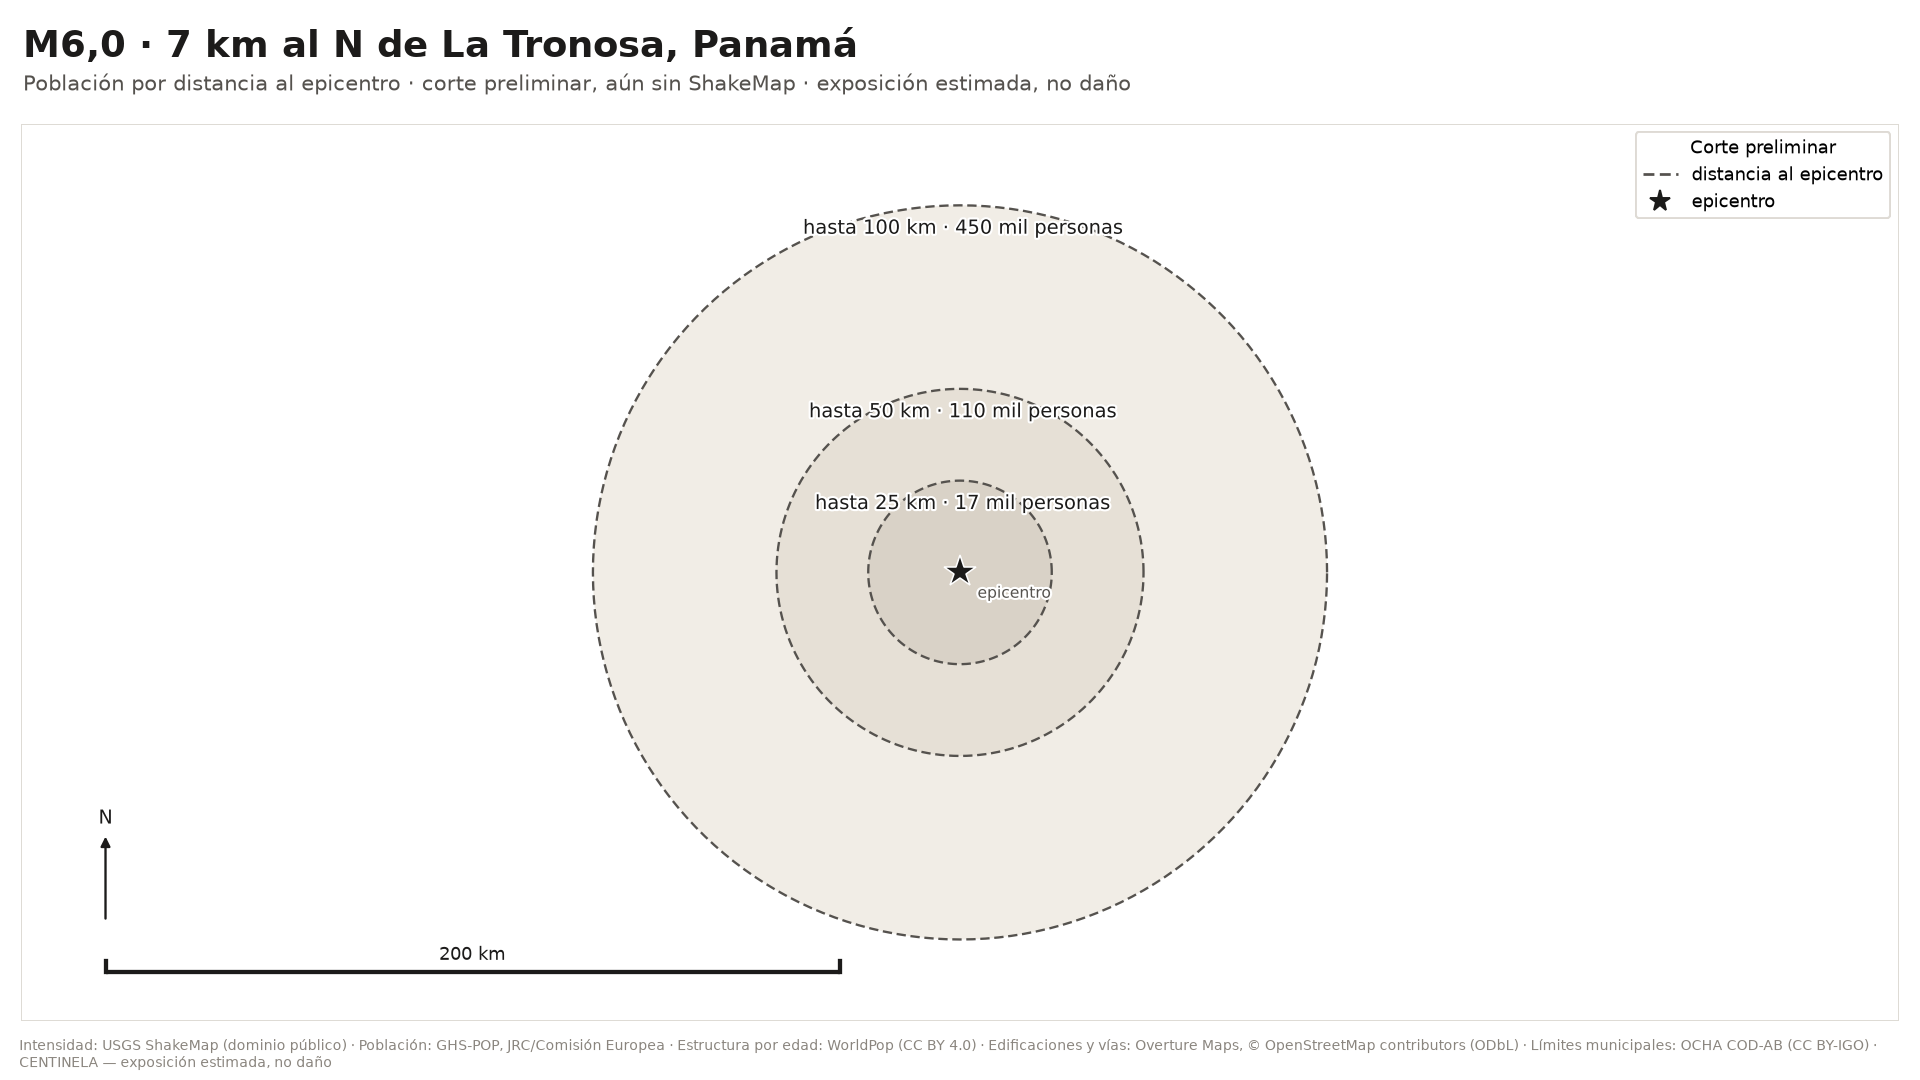
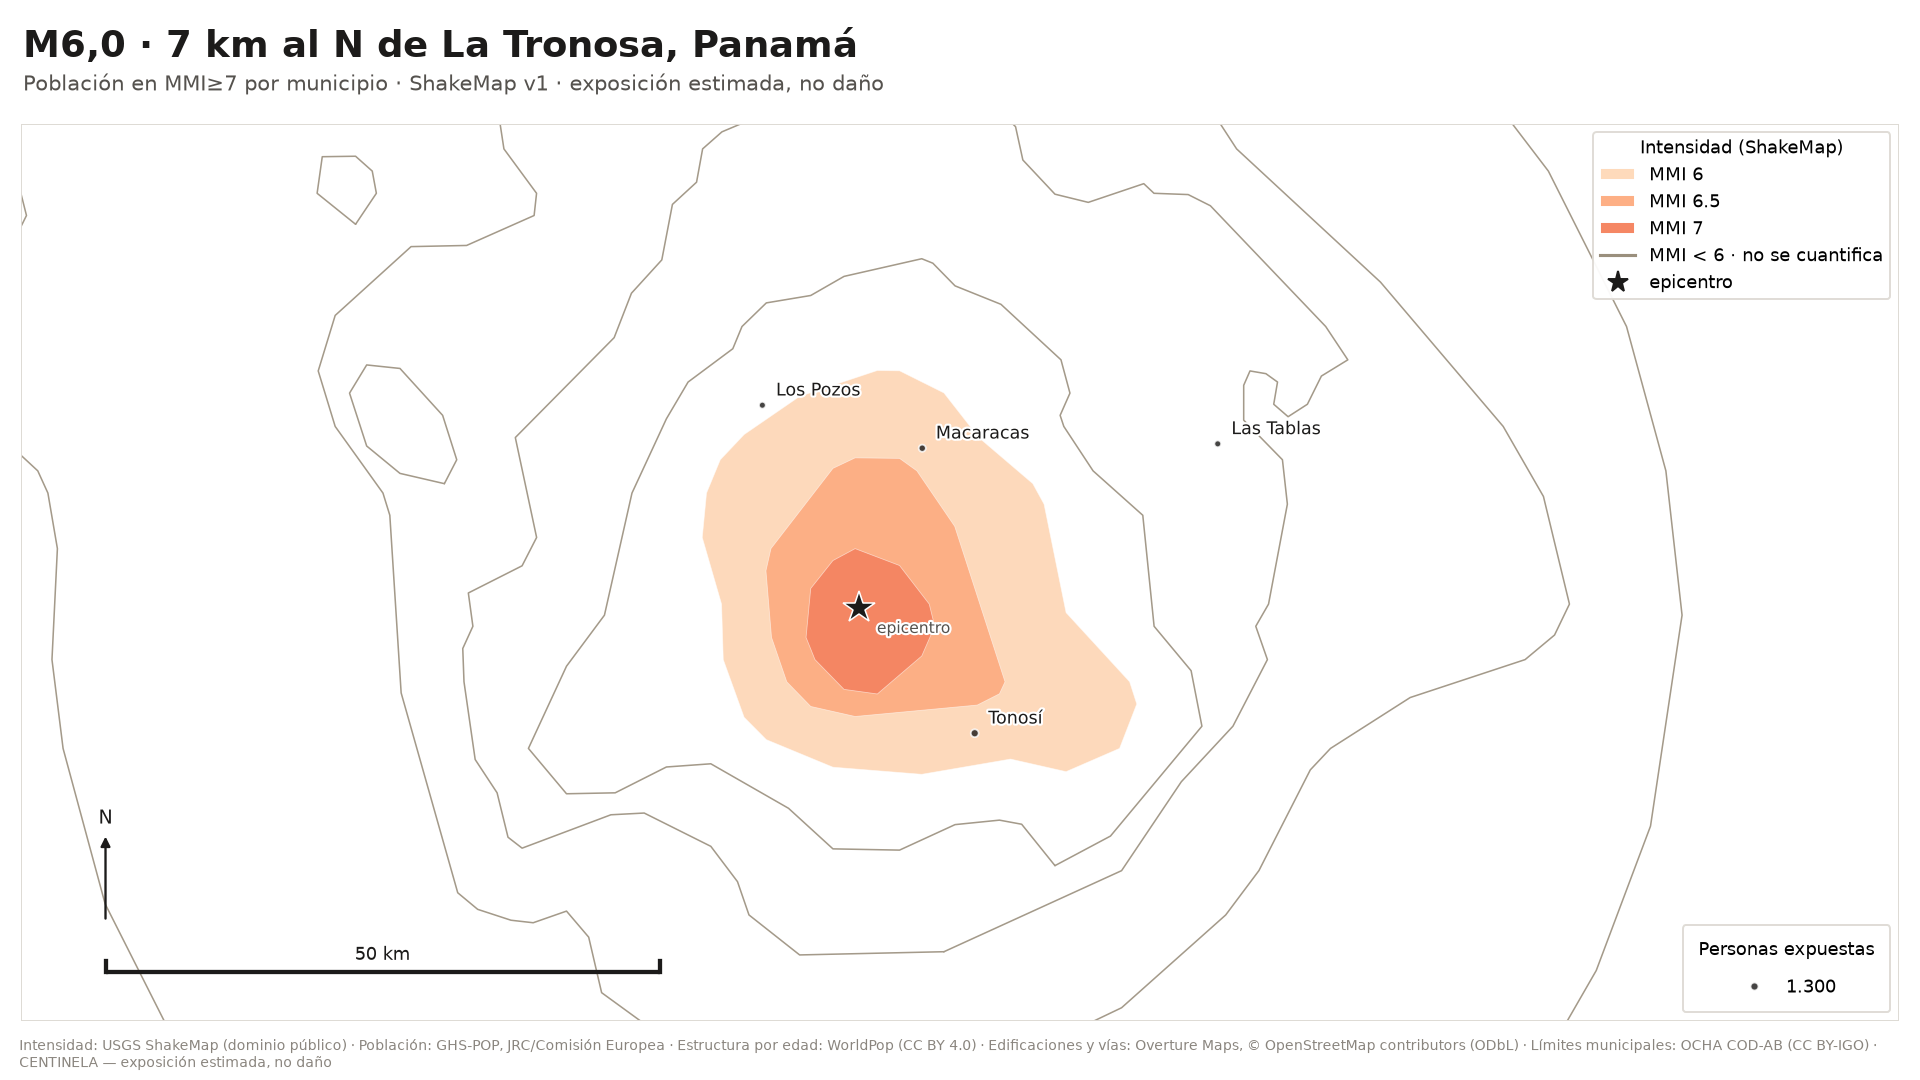
P3: reporte de us6000u1cf

diff --git a/reports/us6000u1cf/report.md b/reports/us6000u1cf/report.md
@@ -2,32 +2,67 @@
 
 **Evento USGS:** `us6000u1cf` · **Origen:** 2026-10-10T04:14:01Z UTC · **Profundidad:** 10,0 km
 
-> **Reporte preliminar sin ShakeMap.** El corte es por radios alrededor del epicentro, no por intensidad modelada. Se actualiza automáticamente en cuanto USGS publique el ShakeMap del evento.
+## Exposición estimada
 
-## Población por distancia al epicentro
-
-| Radio desde el epicentro | Población |
+| Indicador | Estimado |
 |---|---:|
-| 25 km | 17 mil |
-| 50 km | 110 mil |
-| 100 km | 450 mil |
+| Población en MMI≥6 | 12 mil |
+| Población en MMI≥7 | 1.500 |
+| Población en MMI≥8 | el evento no llegó a esta banda |
+| Edificaciones en MMI≥7 | 1.000 |
+| Sedes de salud en MMI≥7 | 0 |
+| Sedes educativas en MMI≥7 | 1 |
+| Vías primarias y secundarias en MMI≥7 | 16 km |
+| Vías locales en MMI≥7 | 48 km |
+| Superficie construida en MMI≥7 | 0,2 km² |
 
-Los radios **no son bandas de intensidad**. Aquí no hay modelo de sacudida, solo distancia: un sismo superficial y uno profundo de la misma magnitud tienen el mismo circulo y no se parecen en nada. La cifra sirve para dimensionar, no para priorizar.
+El satélite detecta **1,7 veces** más superficie construida de la que explicarían las 1.000 edificaciones registradas en MMI≥7. La diferencia suele ser asentamiento informal o zona rural dispersa sin mapear: **el conteo de edificaciones se queda corto ahí, y la superficie construida no**.
+
+Las cifras de esta tabla van redondeadas a dos cifras significativas, que es la precisión que un modelo de exposición sostiene. Las exactas están en el CSV municipal y en `report.json`.
+
+De la población en intensidad MMI≥7, alrededor de **290** personas tienen 65 años o más.
+
+## Municipios más expuestos, por población en MMI≥7
+
+| # | Municipio | Código | MMI max | Población MMI≥7 |
+|---:|---|---|---:|---:|
+| 1 | Tonosí | `PA0907` | 7,0 | 1.300 |
+| 2 | Macaracas | `PA0904` | 7,0 | 150 |
 
 ## Deslizamiento y licuefacción
 
 USGS no ha publicado el producto *Ground Failure* para este evento. La sección se omite; el reporte se re-emite automáticamente si aparece.
 
+## Referencia cruzada
+
+PAGER (USGS) estima para este evento una alerta **amarilla**. CENTINELA no estima víctimas; la cifra se incluye solo como contraste.
+
+Las dos cifras **no se tabulan igual** y no se pueden leer una contra otra: PAGER agrupa por MMI redondeado (su fila «7» es todo lo que cae entre 6,5 y 7,49) y CENTINELA usa bandas literales, donde MMI≥7 es MMI≥7. Puede además que no hablen del mismo ShakeMap: este reporte declara en «Procedencia» qué versión consumió, y PAGER pudo correr sobre otra versión o sobre otro producto del mismo sismo. El contraste banda a banda, hecho y comprobado para el sismo de San José del Palmar, está en `docs/PARA_INSTITUCIONES.md`.
+
 ## Incertidumbre y calidad
 
-Discrepancia entre GHS-POP y WorldPop: **no se calcula en un reporte preliminar**. El contraste se hace celda a celda dentro de las bandas de intensidad, y sin ShakeMap todavía no hay bandas que cortar. Aparecerá en cuanto el reporte se re-emita con el ShakeMap.
+Discrepancia entre GHS-POP y WorldPop en las bandas MMI publicadas: **17,7 %**.
+
+## Cambios frente a la versión anterior
+
+- ShakeMap: v0 → v1 (us)
+- Población en MMI≥6: 0 → 12 mil
+- Población en MMI≥7: 0 → 1.500
+- Población de 65 años o más en MMI≥7: 0 → 290
+- Edificaciones en MMI≥7: 0 → 1.000
+- Sedes educativas en MMI≥7: 0 → 1
+
+## Descargas
+
+- [CSV por municipio](adm2.csv)
+- [Mapa PNG](mapa_general.png)
 
 ## Procedencia
 
-- ShakeMap consumido: **ninguno** (no publicado aún)
+- ShakeMap consumido: **v1** de `us`
 - Ground Failure consumido: **ninguno** (no publicado aún)
 - Manifiesto de exposición: [`pan-v0.4`](https://github.com/sforero77/CENTINELA/blob/main/data/manifests/PAN.yaml)
-- Pipeline: `0.1.0` · Generado: 2026-10-10T04:30:53Z
+- Pipeline: `0.1.0` · Generado: 2026-10-10T04:35:55Z
 
 ## Advertencias
 
